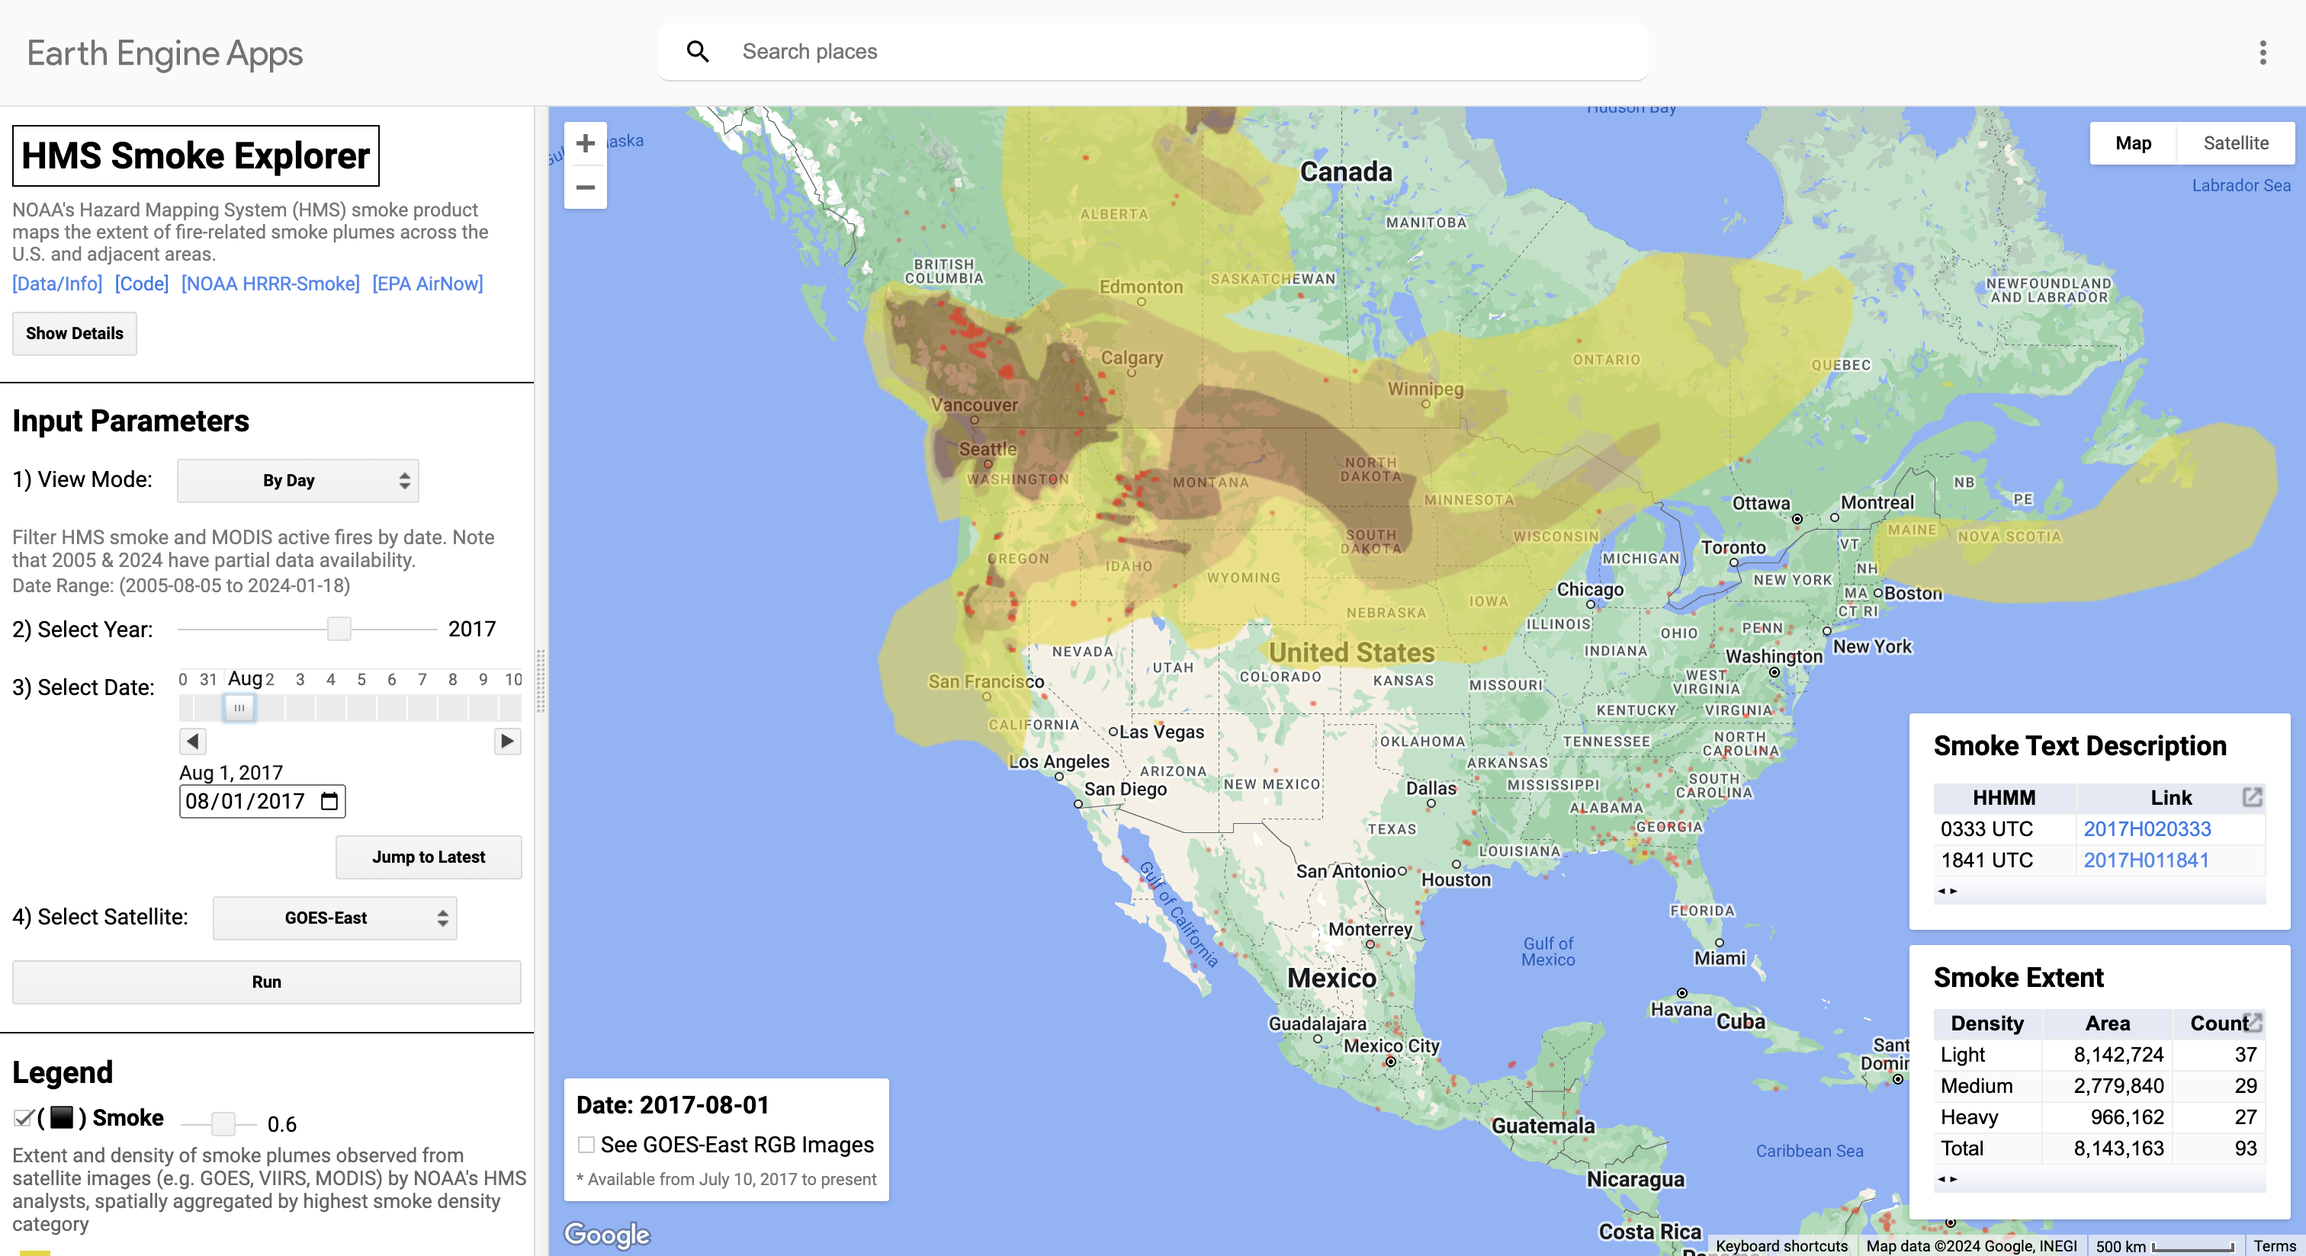
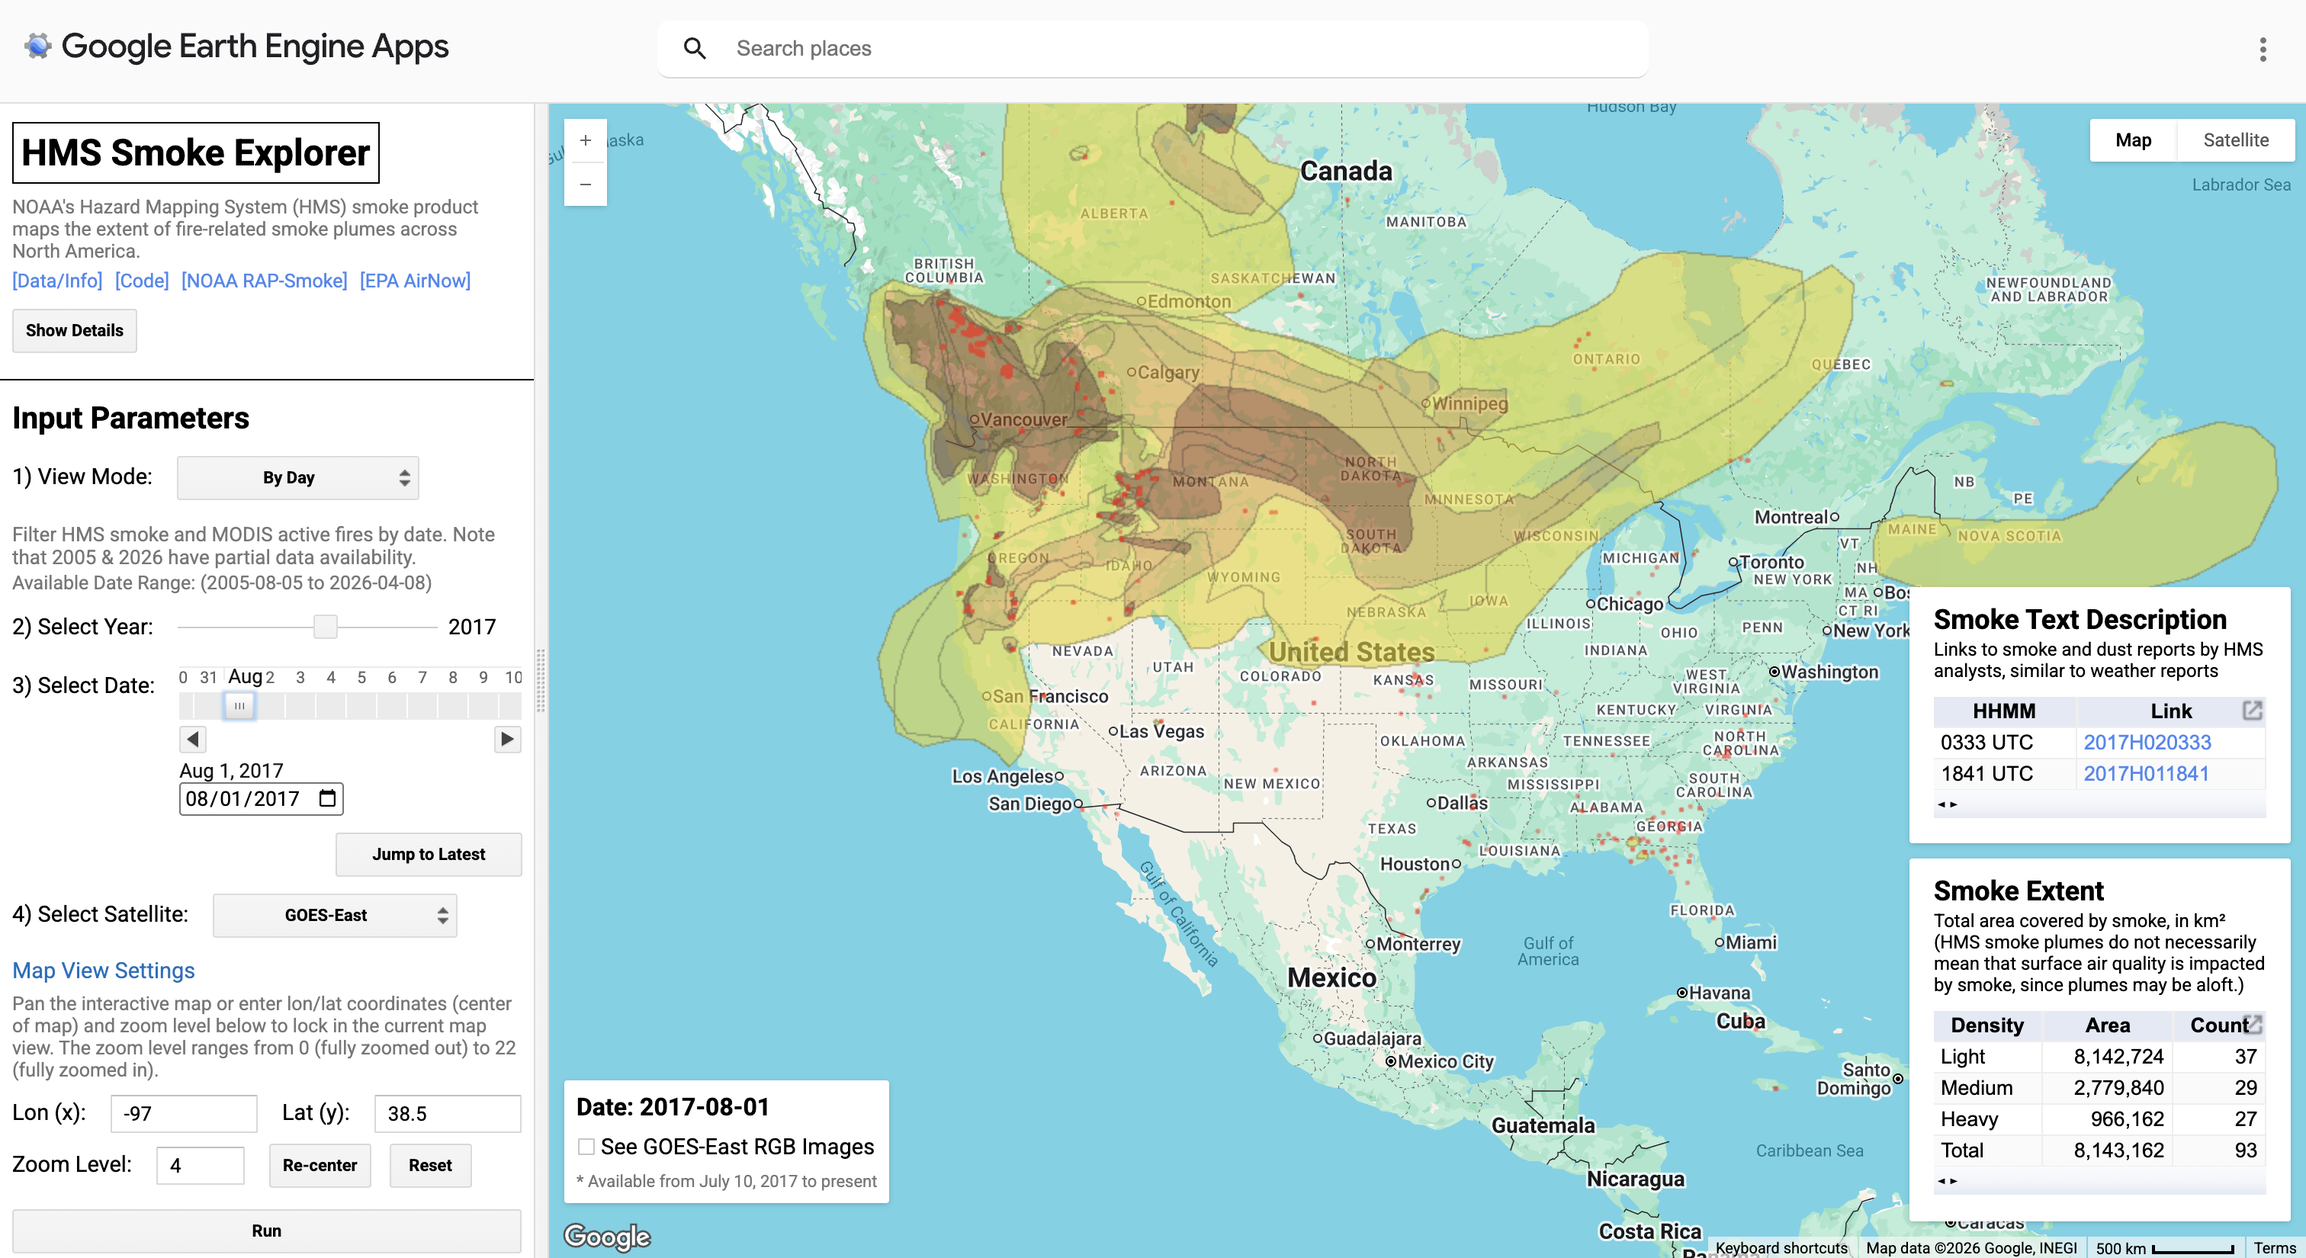
update readme, add map view settings and smoke outlines to app

diff --git a/gee/UI_HMS_Smoke.js b/gee/UI_HMS_Smoke.js
@@ -9,7 +9,7 @@ var maiac = ee.ImageCollection("MODIS/006/MCD19A2_GRANULES"),
 // *****************************************************************
 /*
 // @author Tianjia Liu (embrslab@gmail.com)
-// Last updated: March 31, 2026
+// Last updated: April 9, 2026
 
 // Purpose: visualize HMS smoke with MODIS active fires
 // and aerosol optical depth
@@ -28,7 +28,7 @@ var projFolder = 'projects/GlobalFires/';
 var sYear = 2005;
 var eYear = 2025;
 var nrtYear = eYear + 1;
-var nrtEnd = '2026-03-29';
+var nrtEnd = '2026-04-08';
 
 var region = ee.Geometry.Rectangle([-180,0,0,90],null,false);
 maiac = maiac.filterBounds(region);
@@ -53,6 +53,15 @@ var getHMS = function(year,month,day) {
   var hmsDayHeavy = applyHMScolor(hmsDay,'Heavy',colPal_smoke[2]);
   
   return hmsDayLight.merge(hmsDayMedium).merge(hmsDayHeavy);
+};
+
+var getHMS_outlines = function(year,month,day) {
+  var hmsYr = ee.FeatureCollection(projFolder + 'HMS/Smoke_Polygons/HMS_' + year);
+  
+  var hmsDay = hmsYr.filter(ee.Filter.eq('Month',month))
+    .filter(ee.Filter.eq('Day',day));
+  
+  return ee.Image().paint(hmsDay,1,0);
 };
 
 var getFire = function(year,month,day) {
@@ -452,7 +461,7 @@ var outputRegion = ee.Geometry.Rectangle([-180,0,0,90],null,false);
 var infoPanel = function() {
   var hmsToolLabel = ui.Label('HMS Smoke Explorer', {margin: '12px 0px 0px 8px', fontWeight: 'bold', fontSize: '24px', border: '1px solid black', padding: '5px'});
   
-  var infoLabel = ui.Label('NOAA\'s Hazard Mapping System (HMS) smoke product maps the extent of fire-related smoke plumes across the U.S. and adjacent areas.',
+  var infoLabel = ui.Label('NOAA\'s Hazard Mapping System (HMS) smoke product maps the extent of fire-related smoke plumes across North America.',
     {margin: '8px 20px 2px 8px', fontSize: '12.5px', color: '#777'});
   
   var dataLabel = ui.Label('[Data/Info]', {margin: '3px 5px 3px 8px', fontSize: '12.5px', color: '#5886E8'}, 'https://www.ospo.noaa.gov/Products/land/hms.html');
@@ -598,11 +607,11 @@ var setTimePanel = function(viewMode) {
 
   
     var satLabel = ui.Label('4) Select Satellite:', {fontSize: '14.5px', margin: '8px 8px 8px 8px'});
-      var satSelect = ui.Select({
-        items: ['GOES-East','GOES-West'],
-        value: 'GOES-East',
-        style: {margin: '3px 50px 5px 8px', stretch: 'horizontal'}
-      });
+    var satSelect = ui.Select({
+      items: ['GOES-East','GOES-West'],
+      value: 'GOES-East',
+      style: {margin: '3px 50px 5px 8px', stretch: 'horizontal'}
+    });
     
     var satPanel = ui.Panel([satLabel, satSelect], ui.Panel.Layout.Flow('horizontal'), {stretch: 'horizontal'});
 
@@ -611,7 +620,6 @@ var setTimePanel = function(viewMode) {
 
   return timeModePanel.add(timePanel);
 };
-
 
 var getDate = function(timeModePanel) {
   var inDate = timeModePanel.widgets().get(0).widgets().get(2).widgets().get(1).getValue();
@@ -631,6 +639,71 @@ var getSat = function(timeModePanel) {
   var satName = timeModePanel.widgets().get(0).widgets().get(4).widgets().get(1).getValue();
 
   return satName;
+};
+
+var setZoomPanel = function(map,lon,lat,zoom) {
+  
+  var pointLabel = ui.Label('Map View Settings', {fontSize: '14.5px', margin: '8px 8px 3px 8px', color: '#0070BF'});
+  var coordsLabel = ui.Label('Pan the interactive map or enter lon/lat coordinates (center of map) and zoom level below to lock in the current map view. The zoom level ranges from 0 (fully zoomed out) to 22 (fully zoomed in).',
+    {margin: '3px 8px 6px 8px', fontSize: '12.5px', color: '#777'});
+
+  var lonLabel = ui.Label('Lon (x):', {padding: '3px 0px 0px 0px', fontSize: '14.5px'});
+  var latLabel = ui.Label('Lat (y):', {padding: '3px 0px 0px 0px', fontSize: '14.5px'});
+  var zoomLevelLabel = ui.Label('Zoom Level:', {padding: '3px 0px 0px 0px', fontSize: '14.5px'});
+  
+  var lonBox = ui.Textbox({value: lon, style: {stretch: 'horizontal'}});
+  var latBox = ui.Textbox({value: lat, style: {stretch: 'horizontal'}});
+  var zoomLevelBox = ui.Textbox({value: zoom, style: {width: '58px'}});
+  
+  var coordsPanel = ui.Panel([
+    coordsLabel, ui.Panel([lonLabel, lonBox, latLabel, latBox], ui.Panel.Layout.Flow('horizontal'),
+      {stretch: 'horizontal', margin: '-5px 0px 0px 0px'})
+    ]);
+  
+  var zoomLevelPanel = ui.Panel([
+    ui.Panel([zoomLevelLabel, zoomLevelBox], ui.Panel.Layout.Flow('horizontal'),
+      {stretch: 'horizontal', margin: '-2px 0px 0px 0px'})
+    ]);
+
+  map.onChangeBounds(function(coords) {
+    lonBox.setValue(coords.lon);
+    latBox.setValue(coords.lat);
+    zoomLevelBox.setValue(map.getZoom());
+  });
+  
+  var recenterButton = ui.Button({label: 'Re-center', style: {margin: '4px 4px 0px 8px'}});
+  
+  recenterButton.onClick(function() {
+    map.setCenter(parseFloat(lonBox.getValue()),
+      parseFloat(latBox.getValue()),
+      parseFloat(zoomLevelBox.getValue()));
+  });
+  
+  var resetButton = ui.Button({label: 'Reset', style: {margin: '4px 0px 0px 8px'}});
+  
+  resetButton.onClick(function() {
+    map.setCenter(-97,38.5,4);
+  });
+  
+  return ui.Panel([pointLabel, coordsPanel,
+   ui.Panel([zoomLevelPanel,recenterButton,resetButton], ui.Panel.Layout.Flow('horizontal'),
+      {stretch: 'horizontal', margin: '-5px 0px 0px 0px'})]);
+};
+
+var setMapView = function(zoomPanel,map) {
+  var lon = parseFloat(zoomPanel.widgets().get(1).widgets().get(1).widgets().get(1).getValue());
+  var lat = parseFloat(zoomPanel.widgets().get(1).widgets().get(1).widgets().get(3).getValue());
+  var zoom = parseFloat(zoomPanel.widgets().get(2).widgets().get(0).widgets().get(0).widgets().get(1).getValue());
+
+  return map.setCenter(lon,lat,zoom);
+};
+
+var getMapView = function(zoomPanel,map) {
+  var lon = parseFloat(zoomPanel.widgets().get(1).widgets().get(1).widgets().get(1).getValue());
+  var lat = parseFloat(zoomPanel.widgets().get(1).widgets().get(1).widgets().get(3).getValue());
+  var zoom = parseFloat(zoomPanel.widgets().get(2).widgets().get(0).widgets().get(0).widgets().get(1).getValue());
+
+  return {lon: lon, lat: lat, zoom: zoom};
 };
 
 // Run button
@@ -663,7 +736,7 @@ var getLayerCheck = function(map, label, value, layerPos, opacity, description, 
   legendSubtitle]);
 };
 
-var getLayerCheckSimple = function(map, label, value, layerPos, opacity) {
+var getLayerCheckSimple = function(map, label, value, layerPos, opacity, opacitySpacing) {
   var checkLayer = ui.Checkbox({label: label, value: value,  
     style: {fontWeight: 'bold', fontSize: '15px', margin: '0px 3px 5px 8px'}});
   
@@ -673,7 +746,7 @@ var getLayerCheckSimple = function(map, label, value, layerPos, opacity) {
   });
   
   var opacityLayer = ui.Slider({min: 0, max: 1, value: opacity, step: 0.01,
-    style: {margin: '1px 3px 5px 8px'}
+    style: {margin: opacitySpacing + ' 3px 5px 8px'}
   });
   
   opacityLayer.onChange(function(value) {
@@ -756,6 +829,7 @@ var getLegendContinuous = function(maxVal, colPal) {
 
 var symbol = {
   smoke: '( ⬛ )',
+  smoke_outline: '( 🔲 )',
   fire: '( 🔴 )'
 };
 
@@ -767,19 +841,26 @@ var getLegend = function(map) {
     widgets: [
       footDivider,
       ui.Label('Legend',{fontWeight:'bold',fontSize:'20px',margin:'8px 3px 8px 8px'}),
-      getLayerCheck(map,symbol.smoke + ' Smoke', true, 3, 0.6,
-        'Extent and density of smoke plumes observed from satellite images (e.g. GOES, VIIRS, MODIS) by NOAA\'s HMS analysts, spatially aggregated by highest smoke density category', '6px'),
+      getLayerCheckSimple(map,symbol.smoke + ' Smoke Density', true, 3, 0.6, '2px'),
+      getLayerCheck(map,symbol.smoke_outline + ' Smoke Outlines', false, 4, 0.3,
+        'Extent and density of smoke plumes observed from satellite images (e.g., GOES, VIIRS, MODIS) by NOAA\'s HMS analysts, spatially aggregated by highest smoke density category',
+        '2px'),
       getLegendDiscrete(smokeLabels,colPal_smoke),
-      getLayerCheck(map,symbol.fire + ' Active Fires', true, 4, 0.65,
-        'Sallite-derived active fires from the HMS fire product, including detections from MODIS, VIIRS, GOES, and AVHRR', '6px'),
-      ui.Label('Aerosol Optical Depth',{fontWeight:'bold',fontSize:'16px',margin:'2px 3px 0px 8px'}),
-      ui.Label('MODIS Terra/Aqua MAIAC and ECMWF/CAMS Aerosol Optical Depth (AOD) at 550 nm',{fontSize:'13px',color:'#666',margin:'2px 3px 4px 8px'}),
-      ui.Label('Note: MAIAC AOD may not be up-to-date; CAMS AOD is available from June 21, 2016',{fontSize:'12.5px',color:'#999',margin:'0px 3px 8px 8px'}),
-      getLayerCheckSimple(map,'MAIAC', false, 1, 0.75),
-      getLayerCheckSimple(map,'CAMS', false, 2, 0.75),
+      getLayerCheck(map,symbol.fire + ' Active Fires', true, 5, 0.65,
+        'Sallite-derived active fires from the HMS fire product, including detections from MODIS, VIIRS, GOES, and AVHRR',
+        '2px'),
+      ui.Label('Aerosol Optical Depth',
+        {fontWeight:'bold',fontSize:'16px',margin:'2px 3px 0px 8px'}),
+      ui.Label('MODIS Terra/Aqua MAIAC and ECMWF/CAMS Aerosol Optical Depth (AOD) at 550 nm',
+        {fontSize:'13px',color:'#666',margin:'2px 3px 4px 8px'}),
+      ui.Label('Note: MAIAC AOD may not be up-to-date; CAMS AOD is available from June 21, 2016',
+        {fontSize:'12.5px',color:'#999',margin:'0px 3px 8px 8px'}),
+      getLayerCheckSimple(map,'MAIAC', false, 1, 0.75, '1px'),
+      getLayerCheckSimple(map,'CAMS', false, 2, 0.75, '1px'),
       getLegendContinuous(0.5,colPal.Spectral),
       getLayerCheck(map,'Surface PM2.5', false, 0, 0.55,
-        'ECMWF/CAMS daily average particulate matter (with diameter < 2.5 μm) concentrations, in μg/m³', '0px'),
+        'ECMWF/CAMS daily average particulate matter (with diameter < 2.5 μm) concentrations, in μg/m³',
+        '0px'),
       getLegendDiscrete(['Moderate (12.1 – 35.4)','Unhealthy for Sensitive Groups (35.5 – 55.4)',
           'Unhealthy (55.5 – 150.4)','Very Unhealthy (150.5 – 250.4)','Hazardous (> 250.5)'],
         ['#FEFF54','#EF8532','#EA3423','#8C1B4B','#741425'])
@@ -852,11 +933,13 @@ ui.root.add(init_panels);
 
 var infoPanel = infoPanel();
 var viewPanel = viewPanel();
+
 var timeModePanel = ui.Panel();
 setTimePanel('By Day');
+var zoomPanel = setZoomPanel(map0,-97,38.5,4);
 
 controlPanel.add(infoPanel).add(viewPanel).add(timeModePanel)
-  .add(runButton);
+  .add(zoomPanel).add(runButton);
 
 var counter = 0;
 
@@ -867,23 +950,30 @@ runButton.onClick(function() {
   mapPanel.clear();
   map0 = ui.Map(); map0.clear();
   map0.style().set({cursor:'crosshair'});
-  map0.setCenter(-97,38.5,4);
   map0.setControlVisibility({fullscreenControl: false, layerList: false});
   map0.unlisten();
   
   map1 = ui.Map(); map1.clear();
   map1.style().set({cursor:'crosshair'});
-  map1.setCenter(-97,38.5,4);
   map1.setControlVisibility({fullscreenControl: false, layerList: false});
 
-  mapPanel.add(map0);
+  var lon; var lat; var zoom;
   
+  mapPanel.add(map0);
+
   if (counter > 1) {
+    controlPanel.remove(controlPanel.widgets().get(7));
     controlPanel.remove(controlPanel.widgets().get(6));
     controlPanel.remove(controlPanel.widgets().get(5));
-    controlPanel.remove(controlPanel.widgets().get(4));
   }
-    
+  
+  var mapView = getMapView(zoomPanel);
+  
+  controlPanel.remove(controlPanel.widgets().get(3));
+  zoomPanel = setZoomPanel(map0,mapView.lon,mapView.lat,mapView.zoom);
+  controlPanel.insert(3,zoomPanel);
+  setMapView(zoomPanel,map0);
+  
   // Input parameters:
   var viewMode = getViewMode(viewPanel);
   var inYear = getYear(timeModePanel,viewMode);
@@ -908,6 +998,7 @@ runButton.onClick(function() {
     var goesFire_col = ee.ImageCollection(ee.List(goesFire_IDs.get(satName)).get(goesIdx));
 
     var hmsDay = getHMS(inYear,inMonth,inDay);
+    var hmsDay_outlines = getHMS_outlines(inYear,inMonth,inDay);
     var fireDay = getFire(inYear,inMonth,inDay);
     var aodDay_maiac = getAOD_MAIAC(inYear,inMonth,inDay,'green');
     var aodDay_cams = getCAMS(inYear,inMonth,inDay,'aod');
@@ -922,6 +1013,8 @@ runButton.onClick(function() {
       'AOD (CAMS)',false,0.75);
     map0.addLayer(hmsDay.style({styleProperty:'styleProperty',width:0.5}),{},
       'HMS Smoke',true,0.6);
+    map0.addLayer(hmsDay_outlines,{palette:['#333']},
+      'HMS Smoke Outlines',false,0.35);
     map0.addLayer(fireDay.style({color:'red',pointSize:1,width:0.7}),{},
       'Active Fires',true,0.65);
 
@@ -1182,7 +1275,7 @@ runButton.onClick(function() {
     hmsCatSelect.onChange(function(selected) {
       controlPanel.remove(tsChart);
       tsChart = getSmokeTSChart(inYear,selected);
-      controlPanel.insert(5,tsChart);
+      controlPanel.insert(6,tsChart);
     });
   }
   

diff --git a/README.md b/README.md
@@ -3,7 +3,7 @@ NOAA's Hazard Mapping System ([HMS](https://www.ospo.noaa.gov/Products/land/hms.
 
 The [HMS Smoke Explorer](https://globalfires.earthengine.app/view/hms-smoke) allows end-users to visualize NOAA's Hazard Mapping System (HMS) smoke and fire products, MODIS aerosol optical depth, and GOES-East/West RGB imagery. Since 2005, NOAA analysts have been inspecting satellite imagery (e.g. GOES, MODIS, VIIRS) and manually outlining the extent of smoke across North America, classified into three density categories: light, medium, and heavy, to produce the HMS smoke product. A corresponding HMS fire product includes active fire detections from multiple satellites/sensors (e.g., MODIS, VIIRS, GOES, AVHRR) with quality control by the analysts.
 
-The latest date available in the HMS Smoke Explorer on Google Earth Engine (GEE) is April 1, 2026.
+The latest date available in the HMS Smoke Explorer on Google Earth Engine (GEE) is April 8, 2026.
 
 ![banner image](https://github.com/tianjialiu/HMS-Smoke/blob/main/docs/imgs/HMSSmokeExplorer.png)
 
@@ -58,7 +58,7 @@ ID | Unique ID for each polygon | YYYYJJJ (1-4 = year, 5-7 = day of year, 8-11 =
 Year | Year | 2005-present
 Month | Month | 1-12
 Day | Day | 1-31
-JDay | Julian day or DOY | 1-365 
+JDay | Julian day or DOY | 1-366 
 Start | Start time, UTC  | HHMM
 End | End time, UTC  | HHMM
 StSec | Start time | seconds since 1970-01-01
@@ -114,7 +114,7 @@ Number of HMS polygons in each year, and how many are invalid after processing i
 2023 | 20303 | 20302 | 1 | 0 |
 2024 | 12544 | 12542 | 2 | 0 |
 2025 | 24175 | 24173 | 2 | 0 |
-2026 | 10760 | 10760 | 0 | 0 |
+2026 | 11584 | 11584 | 0 | 0 |
 
 Missing Dates
 ```
@@ -173,7 +173,7 @@ Number of HMS active fires from various satellites and missing days since April 
 2023 | 365 | 8196303 | 0 | 5036609 | 3159694 | 0 | 0 | 0 |
 2024 | 366 | 8434632 | 0 | 4773062 | 3661570 | 0 | 0 | 0 |
 2025 | 365 | 8040406 | 0 | 5076245 | 2938782 | 0 | 0 | 0 |
-2026 | 91 | 1251059 | 0 | 586934 | 664125 | 0 | 0 | 0 |
+2026 | 98 | 1372409 | 0 | 640760 | 731649 | 0 | 0 | 0 |
 
 Missing Dates or Corrupt Files
 ```
@@ -210,6 +210,7 @@ HMS/
 We used random forest classification to assign densities (light, medium, or heavy) to polygons with unspecified densities from 2005-2010. This procedure is described in [Liu et al. (2024, IJWF)](https://doi.org/10.31223/X51963). Note that the code has been updated to use `sf` instead of `rgdal`, and additional processing has been done to fix more bad geometries; more years are now used to train the models. The code workflow uses GEE to generate some input data for the random forest model (`HMS_Stack.js`,`HMS_AOD.js`). The rest of the workflow is in R with `gapfill/RFmodel_prepare.R` to output a CSV table of data for all HMS polygons from 2005-2025, `gapfill/RFmodel_withAOD.R` and `gapfill/RFmodel_withoutAOD.R` to run the random forest classification models, `gapfill/RFmodel_export.R` to output another CSV table now with the gap-filled densities, and finally `gapfill/HMS_gapfill_shp.R` to write new HMS files from 2005-2010 with the gap-filled densities and associated flags. The gap-filling method is computationally intensive and takes around 1 week to complete in GEE and R, largely due to computing AOD for each polygon in GEE.
 
 ### Updates
+* April 2026: added outlines of HMS polygons as a map layer and added map view settings to the HMS Smoke Explorer
 * March 2026: fixed additional HMS smoke polygons with crossed edges, added `ancill/HMS_Fire_fill.R` for backfilling dates with corrupt daily files, added download option for HMS annual bundles in R scripts
 * June 2025: fixed text replacement bug in dates for `HMS_TextLinksYr.R` that omitted links for August reports; updated descriptions for smoke text description and smoke extent panels on the GEE app; fixed label in historical smoke timeseries and typo in equation of the GOES green band in the GEE app
 * May 2025: updated `UI_HMS_Smoke.js` with GOES-19/East imagery and active fires
